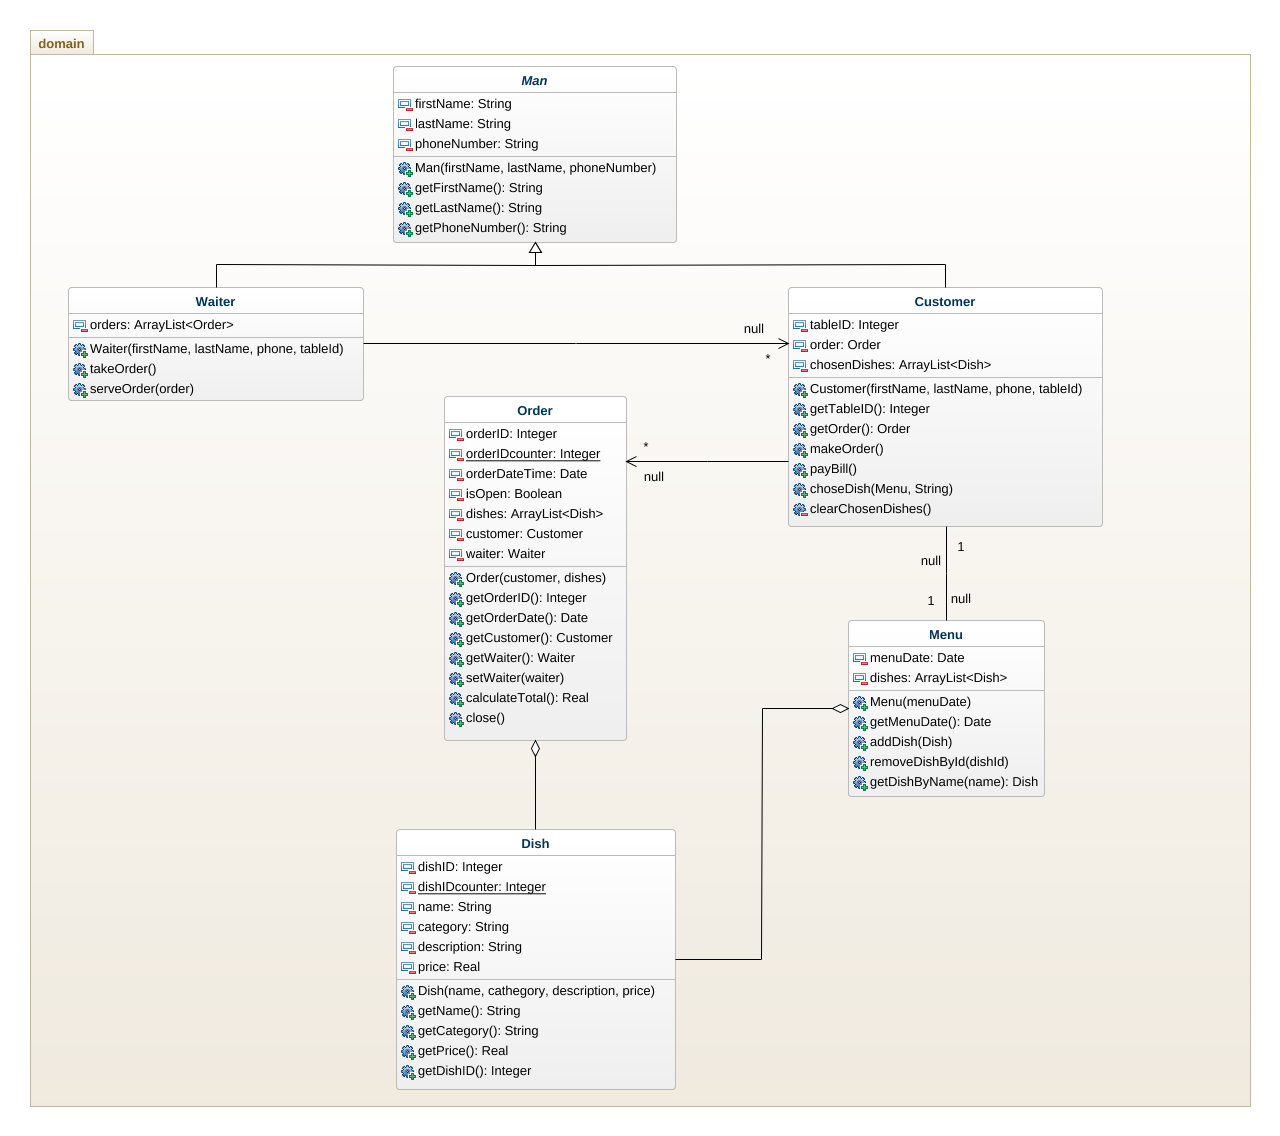
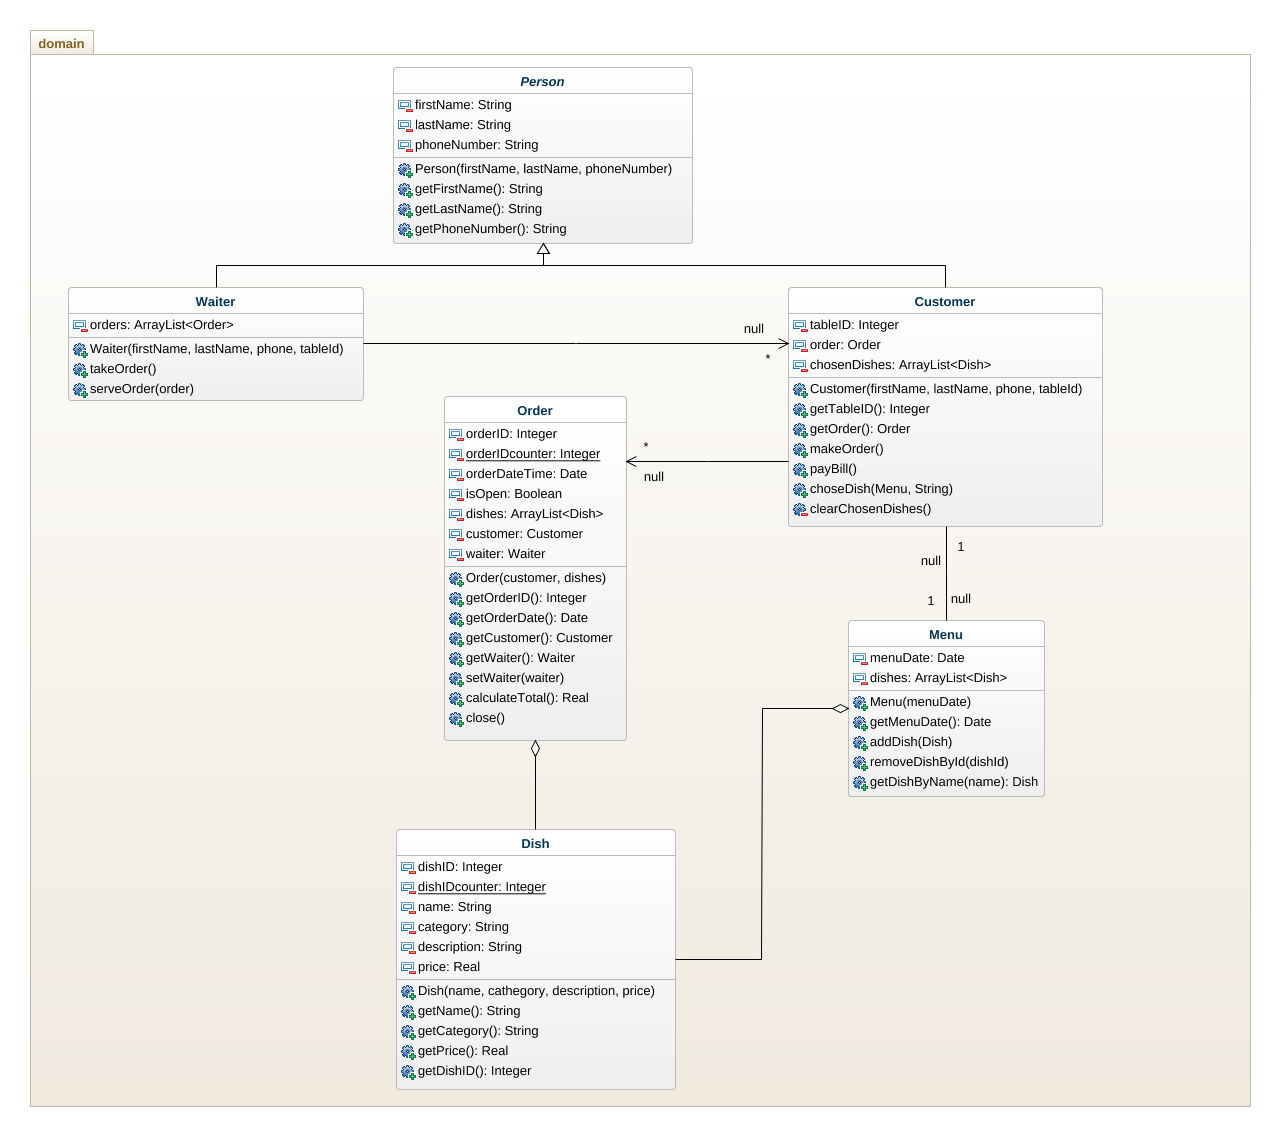
Rename abstract class

Changed region(s): [[0.3125, 0.0616, 0.5312, 0.2157]]

diff --git a/src/Man.java b/src/Man.java
@@ -4,7 +4,7 @@
  * @generated
  */
 
-public abstract class Man
+public abstract class Person
 {
 	/**
 	 * <!-- begin-user-doc -->
@@ -41,7 +41,7 @@ public abstract class Man
 	 * @ordered
 	 */
 	
-	public Man(String firstName, String lastName, String phoneNumber) {
+	public Person(String firstName, String lastName, String phoneNumber) {
 		super();
 		// TODO construct me	
 	}

diff --git a/src/Customer.java b/src/Customer.java
@@ -6,7 +6,7 @@ import java.util.ArrayList;
  * @generated
  */
 
-public class Customer extends Man
+public class Customer extends Person
 {
 	/**
 	 * <!-- begin-user-doc -->

diff --git a/src/Waiter.java b/src/Waiter.java
@@ -4,7 +4,7 @@
  * @generated
  */
 
-public class Waiter extends Man
+public class Waiter extends Person
 {
 	/**
 	 * <!-- begin-user-doc -->
